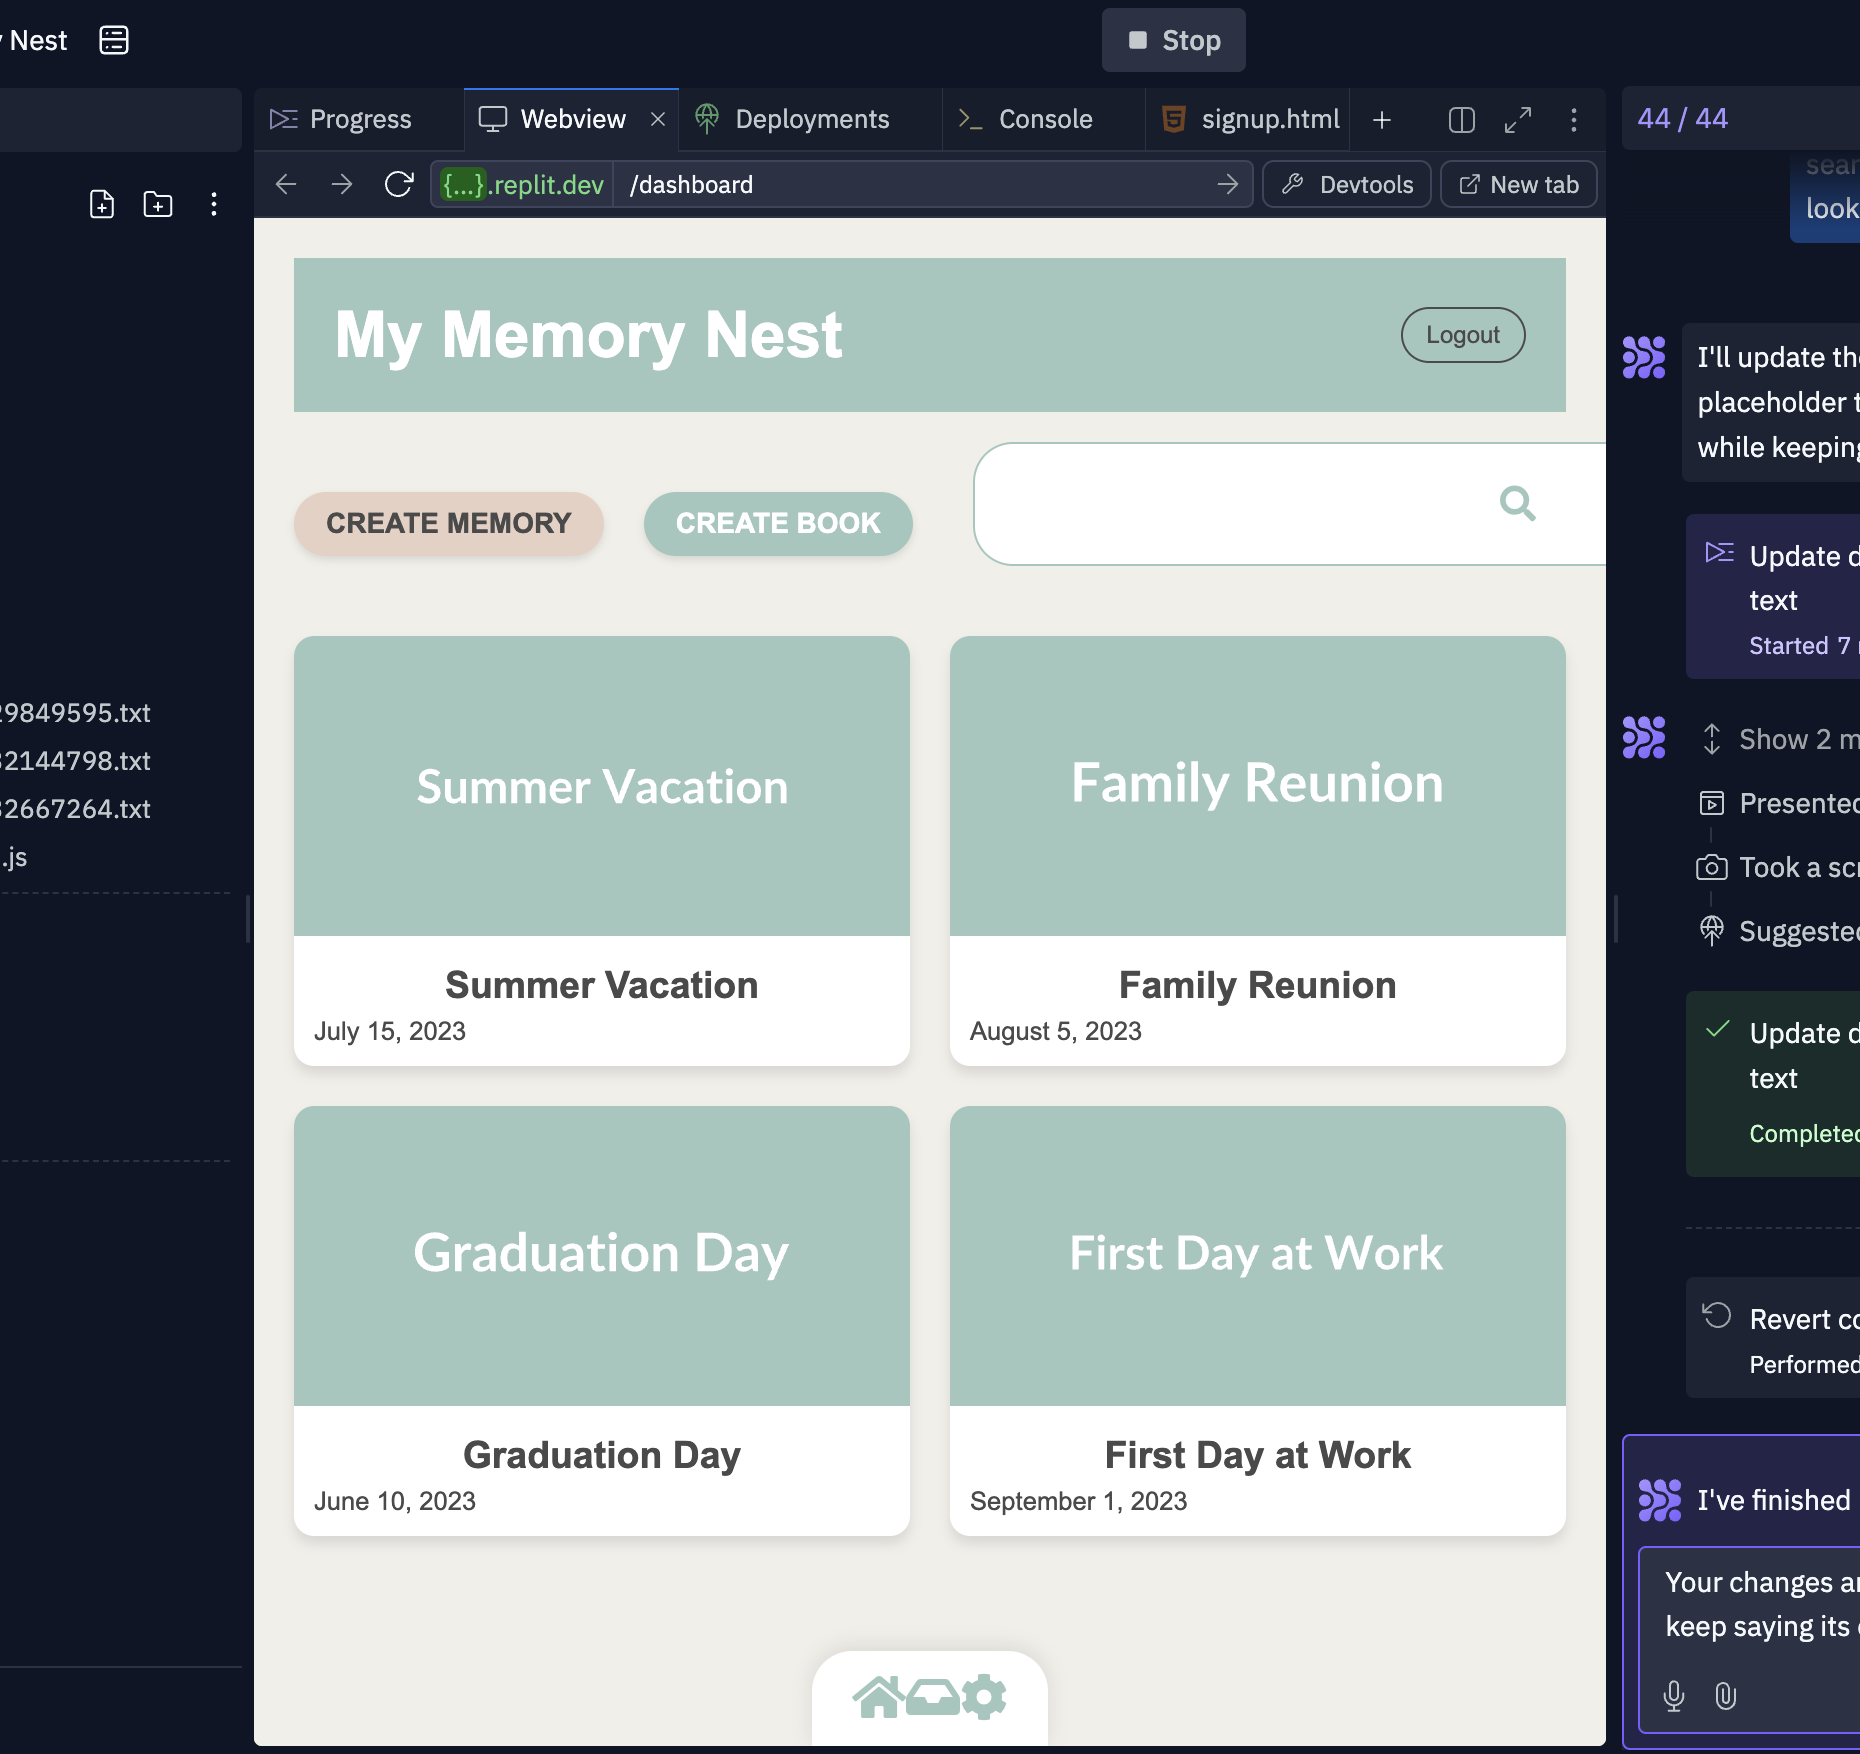
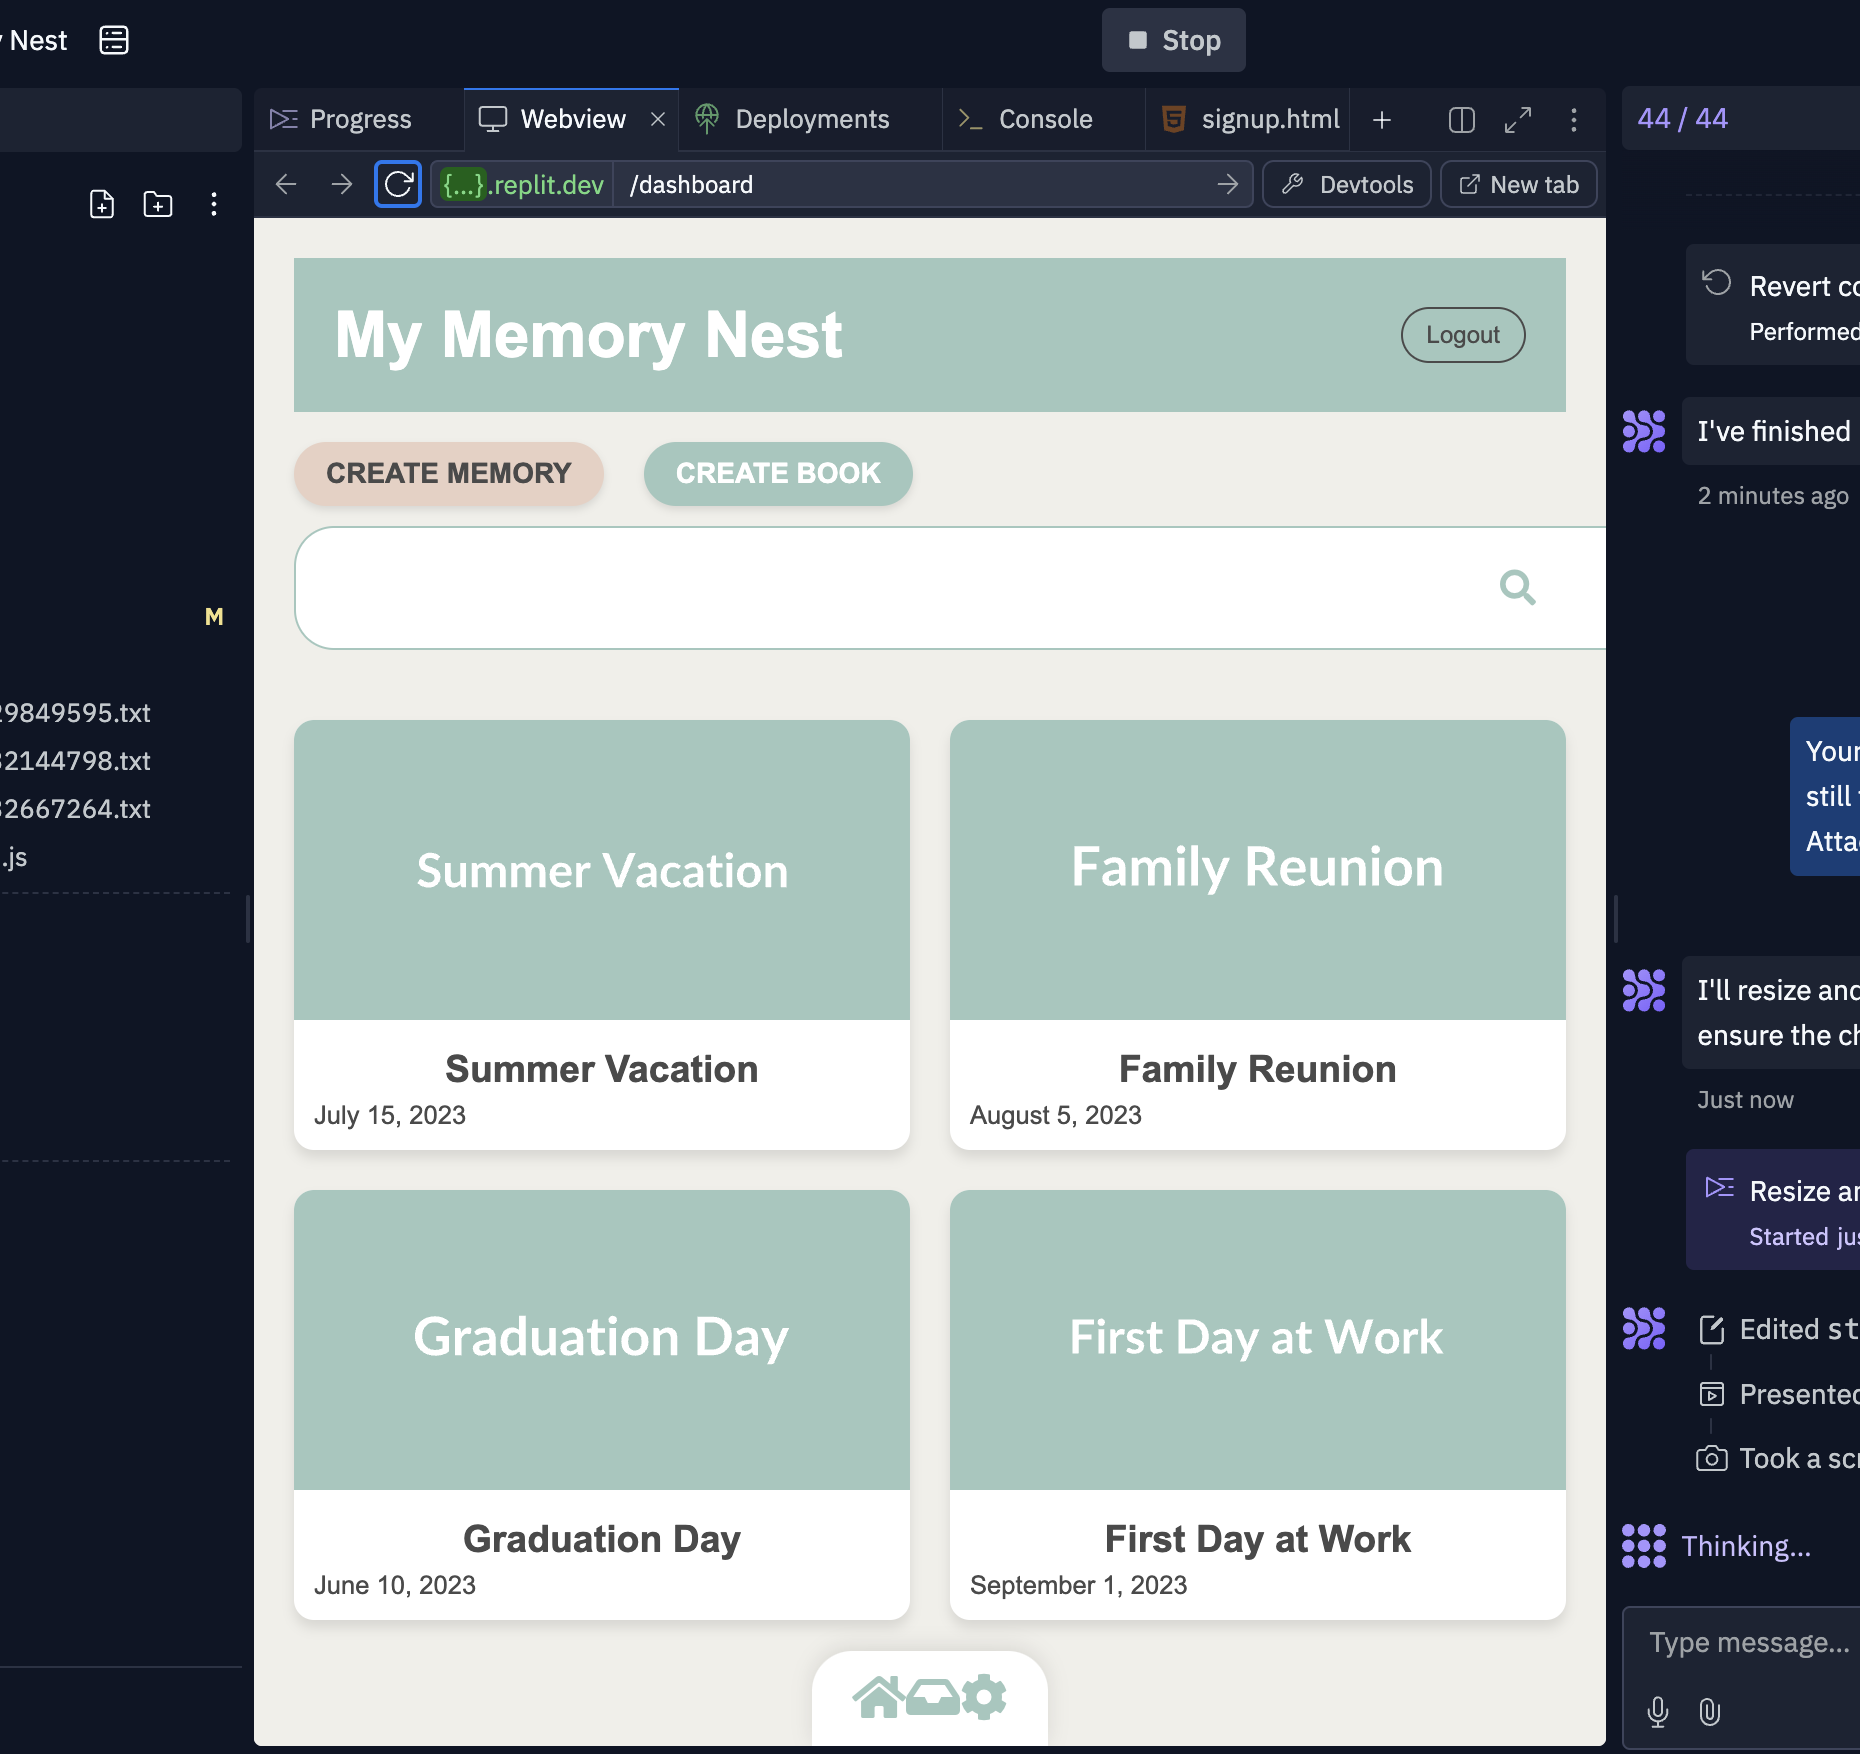
Agent step completed: Reduce search bar size and improve alignment on dashboard

diff --git a/static/css/pages/dashboard.css b/static/css/pages/dashboard.css
@@ -18,10 +18,9 @@
 }
 
 .search-container {
-    flex-grow: 1;
-    margin-left: 20px;
     position: relative;
-    max-width: 400px; /* Limit the maximum width of the search bar */
+    max-width: 300px; /* Reduced from 400px to 300px */
+    width: 100%;
 }
 
 .search-input {
@@ -48,7 +47,7 @@
     transform: translateY(-50%);
     color: #A2C7BE;
     font-size: 18px;
-    pointer-events: none; /* Prevent the icon from intercepting clicks */
+    pointer-events: none;
 }
 
 .action-button {
@@ -72,7 +71,6 @@ main {
     }
 
     .search-container {
-        margin-left: 0;
         max-width: 100%;
     }
 }
